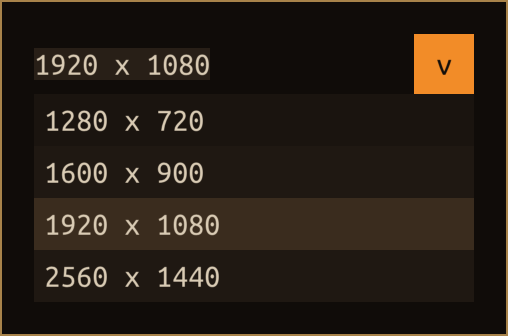
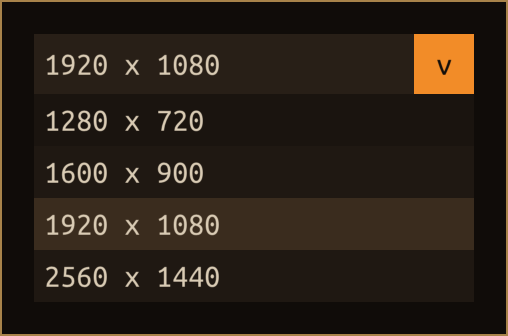
Colour the whole combo box field, line its value up with the rows
The docs theme gives the combo box itself the field colour instead of
its selection picture, the shot shows the selected value lined up with
the rows, and the lists page says what SelectionStyle covers.

Changed region(s): [[0.0591, 0.1488, 0.4429, 0.2381]]

diff --git a/docs/ui-lists.md b/docs/ui-lists.md
@@ -290,7 +290,9 @@ Rows are added and selected as in a [`ListBox`](#listbox) in `Single` mode: <a c
 list's own properties, so a binding to them works as on a list box.
 
 The selection image is a picture of the selected row's content, drawn at its natural size at the left of the combo
-box and centred vertically. It is a texture, so it is not made without a graphics device (for example in tests).
+box and centred vertically. It keeps the side margins the content has in its row (5 units for a text row), so the
+chosen value lines up with the rows of the list. It is a texture, so it is not made without a graphics device (for
+example in tests).
 
 A press on the combo box, on its selection image or on its toggle button, opens or closes the list. The list opens
 below the combo box, at least as wide as it. When it doesn't fit below, it opens on the side with more room, and its
@@ -311,7 +313,7 @@ already). A selection made in code closes an open list as well.
 | <a class="ref dp" href="/docs/ui-glossary/elements/combo-box/#selecteditem">`SelectedItem`</a> | <a class="ref" href="/docs/ui-glossary/elements/list-box-item/">`ListBoxItem`</a> | The selected row, `null` when nothing is selected. Setting it selects that row. |
 | <a class="ref dp" href="/docs/ui-glossary/elements/combo-box/#selectedindex">`SelectedIndex`</a> | `int` | The index of the selected row, `-1` when nothing is selected. |
 | <a class="ref prop" href="/docs/ui-glossary/elements/combo-box/#selectedsource">`SelectedSource`</a> | `object` | Read-only. The <a class="ref dp" href="/docs/ui-glossary/elements/combo-box/#itemssource">`ItemsSource`</a> object of the selected row, `null` without one. |
-| <a class="ref dp" href="/docs/ui-glossary/elements/combo-box/#selectionstyle">`SelectionStyle`</a> | <a class="ref" href="/docs/ui-glossary/types/image-style/">`ImageStyle`</a> | The style of the image that shows the selected row. |
+| <a class="ref dp" href="/docs/ui-glossary/elements/combo-box/#selectionstyle">`SelectionStyle`</a> | <a class="ref" href="/docs/ui-glossary/types/image-style/">`ImageStyle`</a> | The style of the image that shows the selected row. The image is only as large as the row's content, so a background colour here lies just behind the chosen value; the combo box's own <a class="ref dp" href="/docs/ui-glossary/elements/base-element/#backgroundcolor">`BackgroundColor`</a> colours the whole field. |
 | <a class="ref dp" href="/docs/ui-glossary/elements/combo-box/#togglebuttonstyle">`ToggleButtonStyle`</a> | <a class="ref" href="/docs/ui-glossary/types/button-style/">`ButtonStyle`</a> | The style of the [button](/docs/ui-controls/#button) that opens and closes the list, for example its width and text. |
 | <a class="ref dp" href="/docs/ui-glossary/elements/combo-box/#listboxstyle">`ListBoxStyle`</a> | <a class="ref" href="/docs/ui-glossary/types/list-box-style/">`ListBoxStyle`</a> | The style of the drop-down list, for example its row colours. |
 

diff --git a/docs/ui-glossary/elements/combo-box.md b/docs/ui-glossary/elements/combo-box.md
@@ -59,7 +59,7 @@ Names are coloured by what they are: a <span class="kb kb-prop">plain property</
 
 <h3 id="selectionstyle"><span class="dp"><code>SelectionStyle</code></span> <a class="ctx" href="/docs/ui-lists/#combobox-properties" title="SelectionStyle in context on the lists and menus page" aria-label="SelectionStyle in context on the lists and menus page">→</a></h3>
 
-<a class="ref" href="/docs/ui-glossary/types/image-style/">`ImageStyle`</a> · The style of the image that shows the selected row.
+<a class="ref" href="/docs/ui-glossary/types/image-style/">`ImageStyle`</a> · The style of the image that shows the selected row. The image is only as large as the row's content, so a background colour here lies just behind the chosen value; the combo box's own <a class="ref dp" href="/docs/ui-glossary/elements/base-element/#backgroundcolor">`BackgroundColor`</a> colours the whole field.
 
 <h3 id="styleoverride"><span class="prop"><code>StyleOverride</code></span> <a class="ctx" href="/docs/ui-base-element/#genericstyleandmousecursorsdata-properties" title="StyleOverride in context on the base element page" aria-label="StyleOverride in context on the base element page">→</a></h3>
 

diff --git a/docs/ui-glossary/types/combo-box-style.md b/docs/ui-glossary/types/combo-box-style.md
@@ -19,7 +19,7 @@ Names are coloured by what they are: a <span class="kb kb-prop">property</span>,
 
 <h3 id="selectionstyle"><span class="prop"><code>SelectionStyle</code></span> <a class="ctx" href="/docs/ui-lists/#combobox-properties" title="SelectionStyle in context on the lists and menus page" aria-label="SelectionStyle in context on the lists and menus page">→</a></h3>
 
-<a class="ref" href="/docs/ui-glossary/types/image-style/">`ImageStyle`</a> · The style of the image that shows the selected row.
+<a class="ref" href="/docs/ui-glossary/types/image-style/">`ImageStyle`</a> · The style of the image that shows the selected row. The image is only as large as the row's content, so a background colour here lies just behind the chosen value; the combo box's own <a class="ref prop" href="/docs/ui-glossary/types/base-style/#backgroundcolor">`BackgroundColor`</a> colours the whole field.
 
 <h3 id="togglebuttonstyle"><span class="prop"><code>ToggleButtonStyle</code></span> <a class="ctx" href="/docs/ui-lists/#combobox-properties" title="ToggleButtonStyle in context on the lists and menus page" aria-label="ToggleButtonStyle in context on the lists and menus page">→</a></h3>
 

diff --git a/docs/ui-styles.md b/docs/ui-styles.md
@@ -114,7 +114,7 @@ public static void Apply()
 
     ComboBox.GeneralStyle = new ComboBoxStyle
     {
-        SelectionStyle = new ImageStyle { BackgroundColor = PanelLight },
+        BackgroundColor = PanelLight,
         ToggleButtonStyle = new ButtonStyle
         {
             NormalColor = GoldDim,
